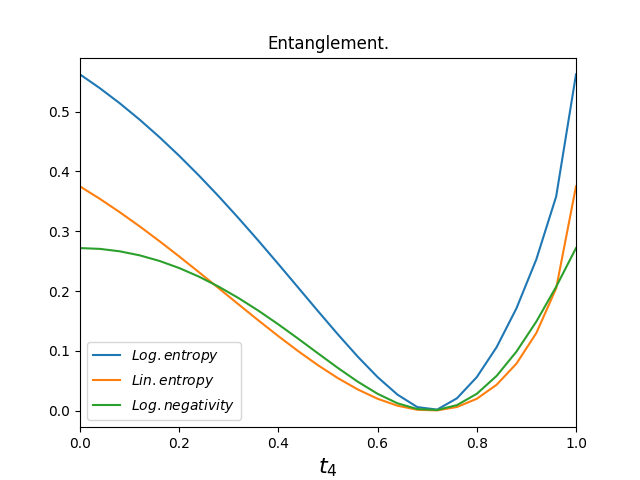
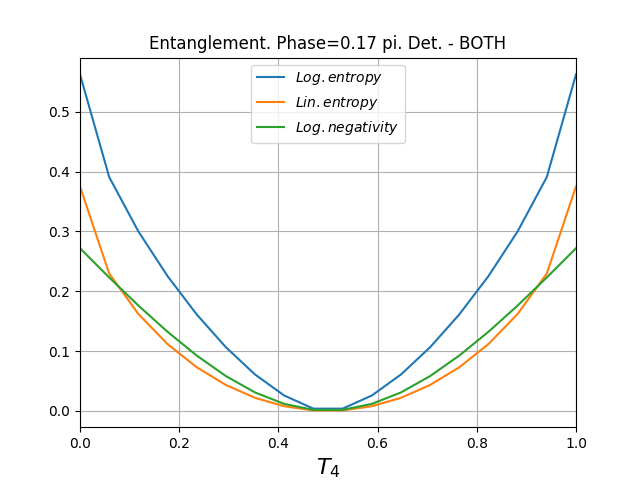
w

diff --git a/main.py b/main.py
@@ -152,7 +152,7 @@ r4_grid = 18
 
 bs1_even = True
 
-phase_diff = (1/6) * np.pi
+phase_diff = (0) * np.pi
 
 log_entropy_array = np.zeros((r4_grid, r1_grid), dtype=complex)
 lin_entropy = np.zeros((r4_grid, r1_grid), dtype=complex)
@@ -222,14 +222,23 @@ for i in range(r4_grid):
         final_traced = trace_channel(final_dens_matrix, channel=4)
         print('Trace of final matrix:', np.trace(final_traced))
 
+        # Other channel traced
+        final_traced_4th = trace_channel(final_dens_matrix, channel=2)
+
         # Calculate entropy
         log_entanglement = log_entropy(final_traced)
         # log_entanglement = log_entropy(afterdet_traced)
         print('Log. entropy: ', np.real(log_entanglement))
         log_entropy_array[i, j] = log_entanglement
 
+        # Logarithmic entropy difference
+        print('Log. entropy difference: ', log_entanglement - log_entropy(final_traced_4th))
+
         lin_entropy[i, j] = np.real(linear_entropy(final_traced))
         print('Lin. entropy: ', lin_entropy[i, j])
+
+        # Linear entropy difference
+        print('Linear entropy difference: ', lin_entropy[i, j] - linear_entropy(final_traced_4th))
 
         log_negativity[i, j] = negativity(final_dens_matrix, neg_type='logarithmic')
         print('Log. negativity: ', log_negativity[i, j])
@@ -276,11 +285,6 @@ plt.title(r'Log. VN entropy.')
 # surf = ax.plot_surface(X, Y, np.real(log_negativity), cmap=cm.coolwarm,
 #                        linewidth=0, antialiased=False)
 # plt.title(r'Log. negativity.')
-
-# Customize the z axis.
-# ax.set_zlim(-1.01, 1.01)
-# ax.zaxis.set_major_locator(LinearLocator(10))
-# ax.zaxis.set_major_formatter(FormatStrFormatter('%.02f'))
 
 # Add a color bar which maps values to colors.
 fig.colorbar(surf, shrink=0.5, aspect=5)

diff --git a/core/basic.py b/core/basic.py
@@ -173,7 +173,7 @@ def log_entropy(dens_matrix):
     w, v = np.linalg.eig(dens_matrix)
     for n in range(size):
         if w[n] != 0:
-            entropy = entropy + w[n] * np.log(w[n])
+            entropy = entropy + w[n] * np.log2(w[n])
     entropy = - entropy
     return entropy
 
@@ -225,7 +225,7 @@ def negativity(rho, neg_type='logarithmic'):
         raise ValueError('Incorrect configuration')
 
 
-def phase_modulation(rho, phase=0):
+def phase_modulation(rho, phase):
     if phase is 0:
         return rho
     size = len(rho)
